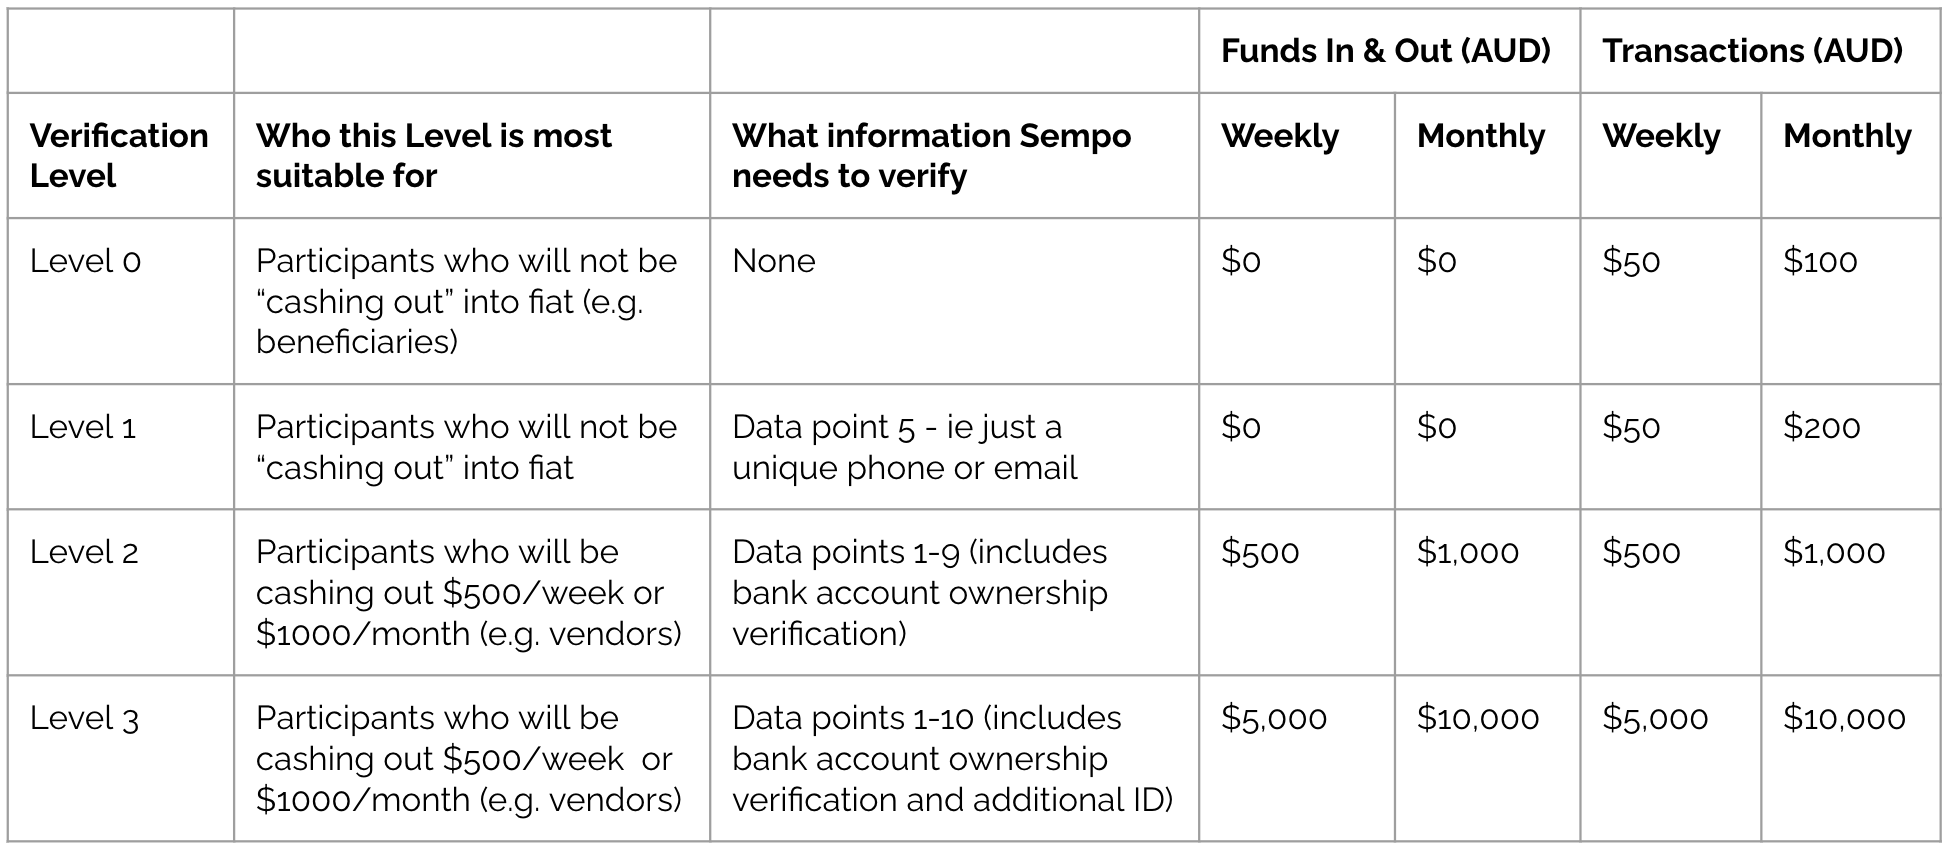
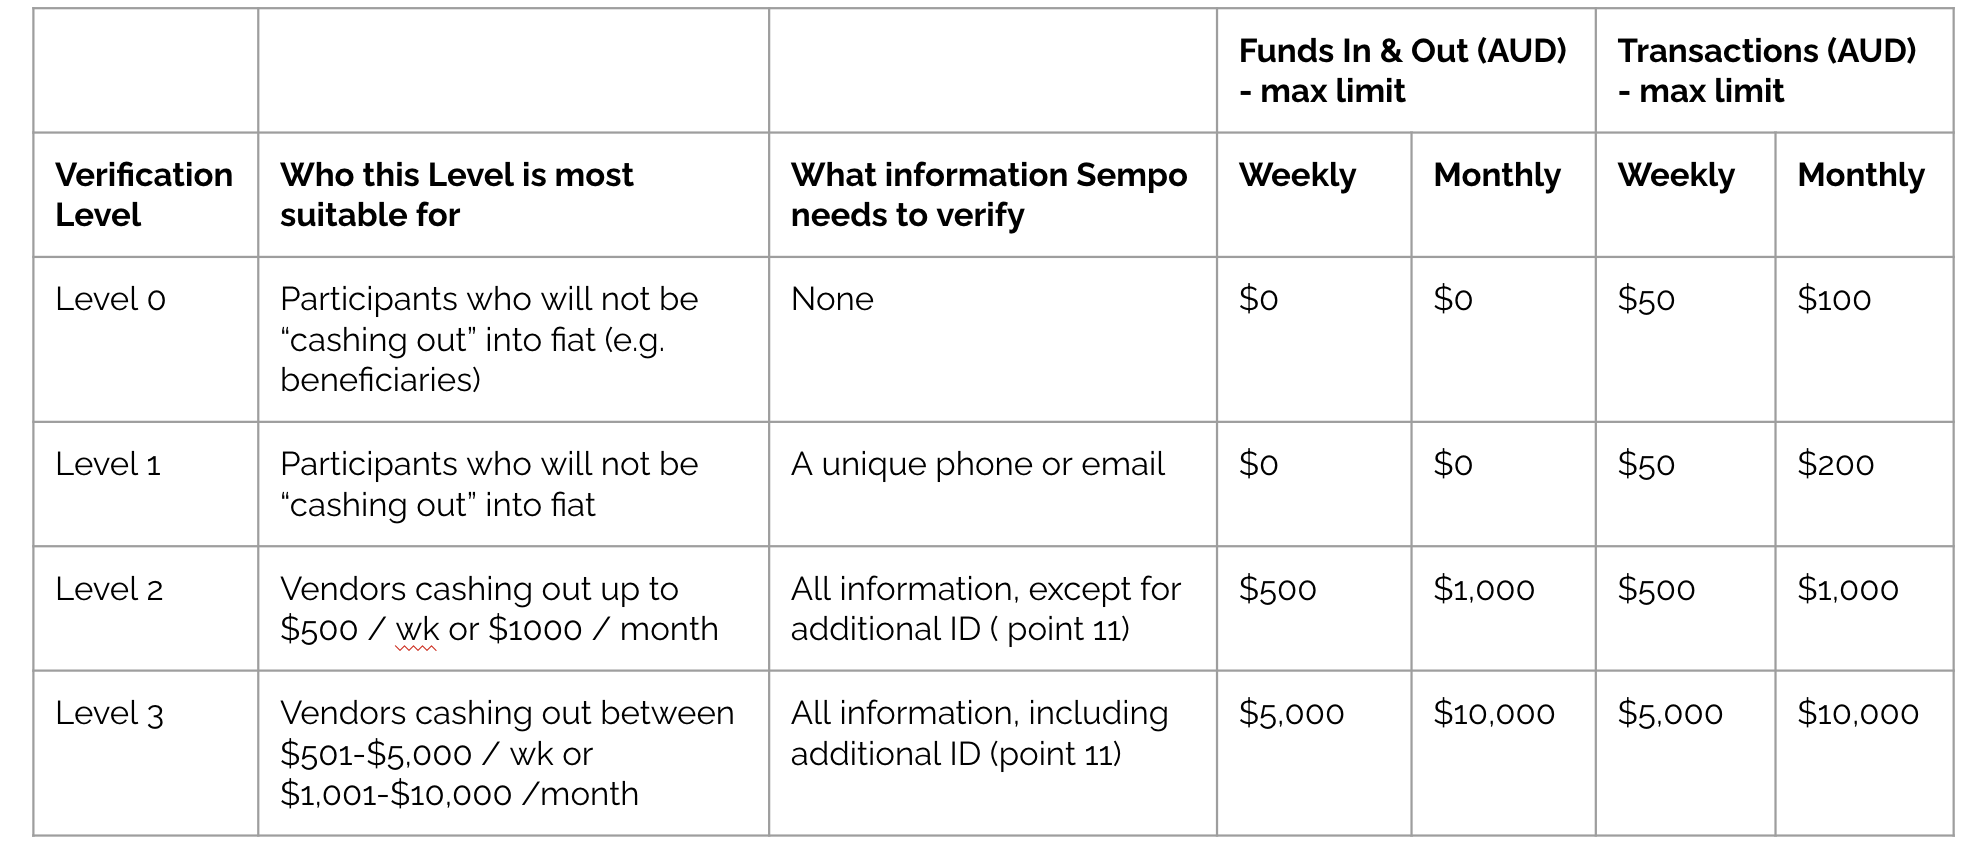
GitBook: [master] one page and 3 assets modified

diff --git a/policies-and-security/compliance-aml-ctf/kyc.md b/policies-and-security/compliance-aml-ctf/kyc.md
@@ -12,10 +12,9 @@ By working with Sempo to satisfy AML/CTF and KYC regulations, our partners can b
 
 ## What are Sempo's Transaction Limits?
 
-We implement strict velocity exchange limits, ensuring that the rapid exchange of a large amount of currency is impossible for a single individual or small group of individuals. In addition, there are transaction limits in place to ensure that only fully verified users have access to the full service.  
-\`
+We implement strict velocity exchange limits, ensuring that the rapid exchange of a large amount of currency is impossible for a single individual or small group of individuals. In addition, there are transaction limits in place to ensure that only fully verified users have access to the full service.
 
-![Amounts quoted in Australian Dollars \(AUD$\)](../../.gitbook/assets/image%20%287%29.png)
+![Numbers are in Australian Dollars \(AUD\)](../../.gitbook/assets/image%20%288%29.png)
 
 Please note: Level 0 and 1 are suitable for beneficiaries, who will not be "cashing out" their credits into fiat currency. Level 2 and 3 are suitable for vendors or any persons who will be "cashing out" into fiat currency.
 
